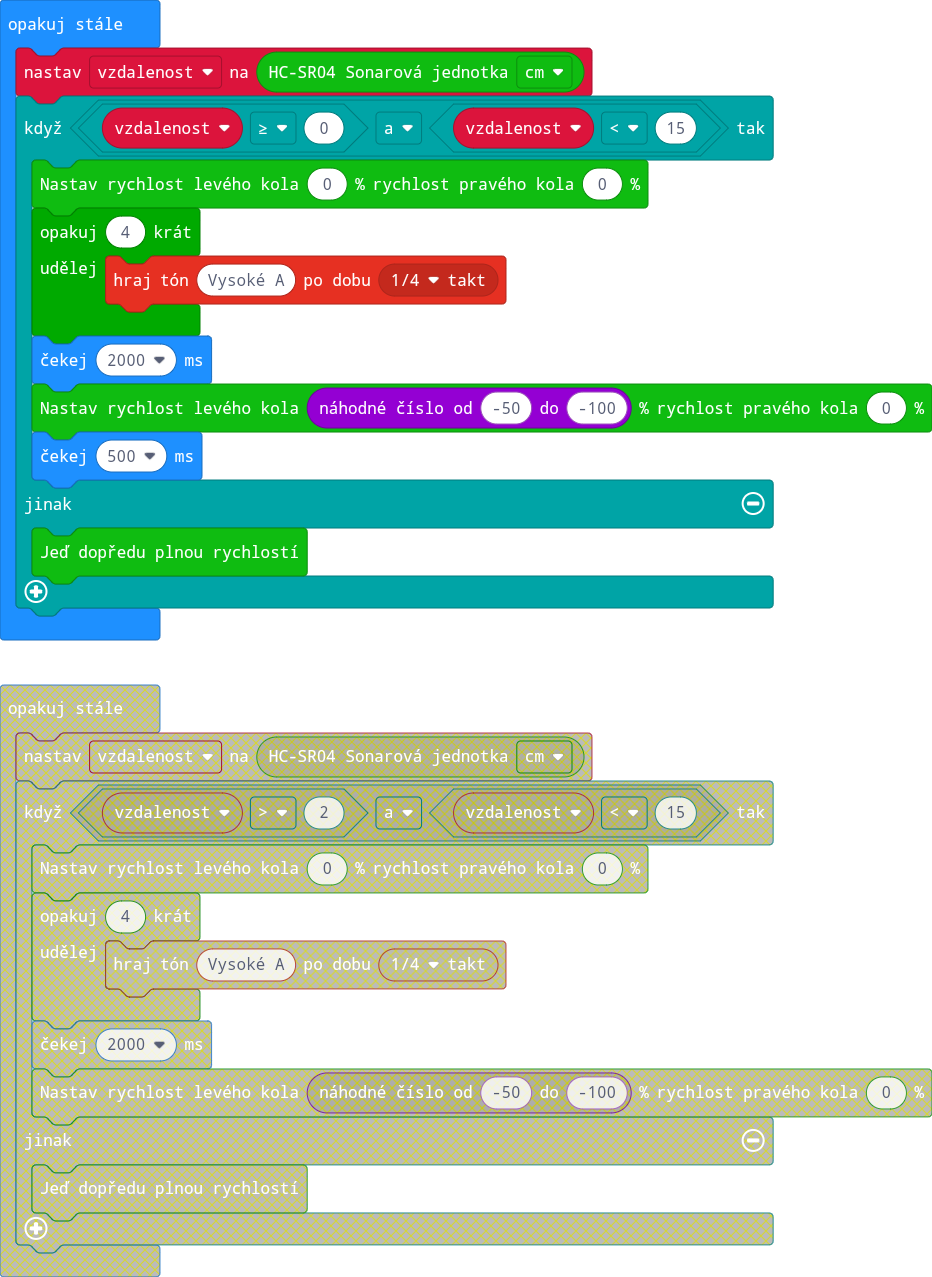
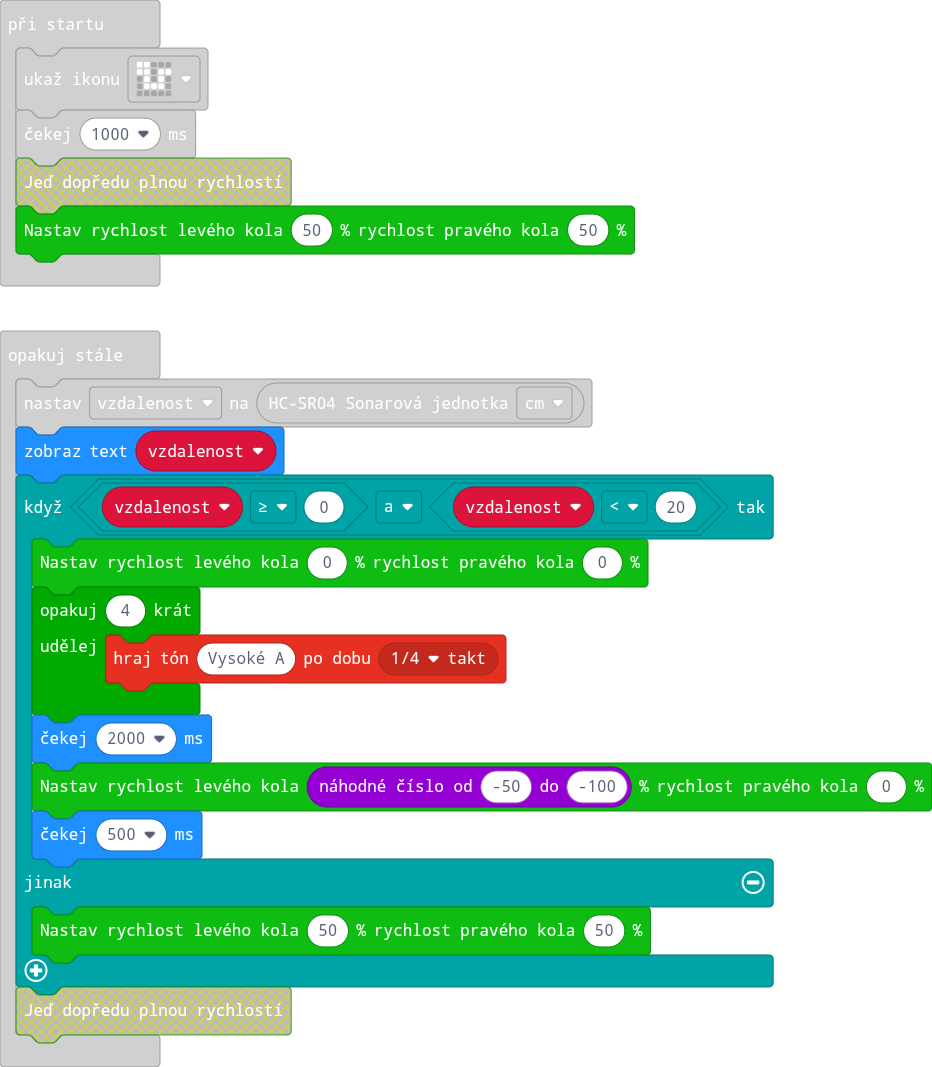
Aktualizovat main.blocks, main.ts

diff --git a/main.ts b/main.ts
@@ -1,10 +1,11 @@
 let vzdalenost = 0
 basic.showIcon(IconNames.Snake)
 basic.pause(1000)
-cuteBot.forward()
+cuteBot.motors(50, 50)
 basic.forever(function () {
     vzdalenost = cuteBot.ultrasonic(cuteBot.SonarUnit.Centimeters)
-    if (vzdalenost >= 0 && vzdalenost < 15) {
+    basic.showString("" + (vzdalenost))
+    if (vzdalenost >= 0 && vzdalenost < 20) {
         cuteBot.motors(0, 0)
         for (let index = 0; index < 4; index++) {
             music.playTone(880, music.beat(BeatFraction.Quarter))
@@ -13,6 +14,6 @@ basic.forever(function () {
         cuteBot.motors(randint(-50, -100), 0)
         basic.pause(500)
     } else {
-        cuteBot.forward()
+        cuteBot.motors(50, 50)
     }
 })
